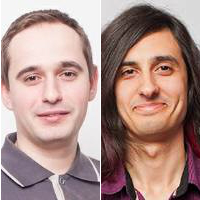
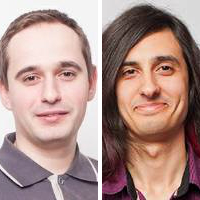
updating labels

diff --git a/app/services/pictures/mix_multiple_pictures.rb b/app/services/pictures/mix_multiple_pictures.rb
@@ -7,7 +7,7 @@ module Pictures
     end
 
     def convert_two
-      `convert -size 200x200 xc:white \\( #{next_picture} -gravity Center -crop 99x200+0+0 -repage 99x200+50.5+0 \\) -geometry -50.5x0 -composite \\( #{next_picture} -gravity Center -crop 99x200+0+0 -repage 99x200+50.5+0 \\) -geometry +50.5+0 -composite #{convert_url_to_path(dest_picture)}`
+      `convert -size 200x200 xc:white \\( #{next_picture} -gravity Center -crop 98x200+0+0 -repage 98x200+51+0 \\) -geometry -51x0 -composite \\( #{next_picture} -gravity Center -crop 98x200+0+0 -repage 98x200+51+0 \\) -geometry +51+0 -composite #{convert_url_to_path(dest_picture)}`
     end
 
     def next_picture
